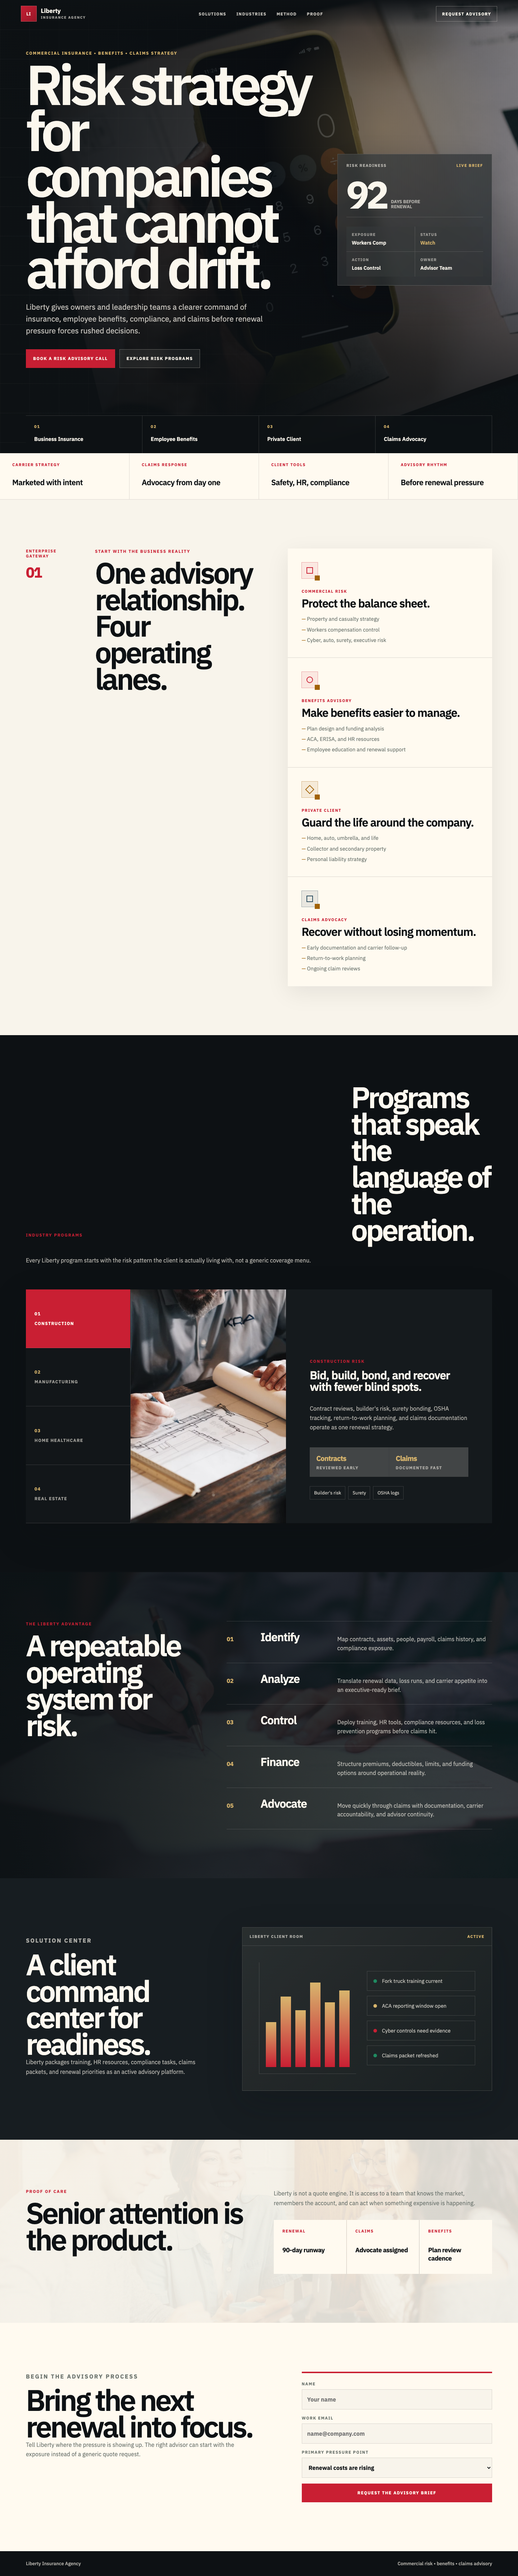
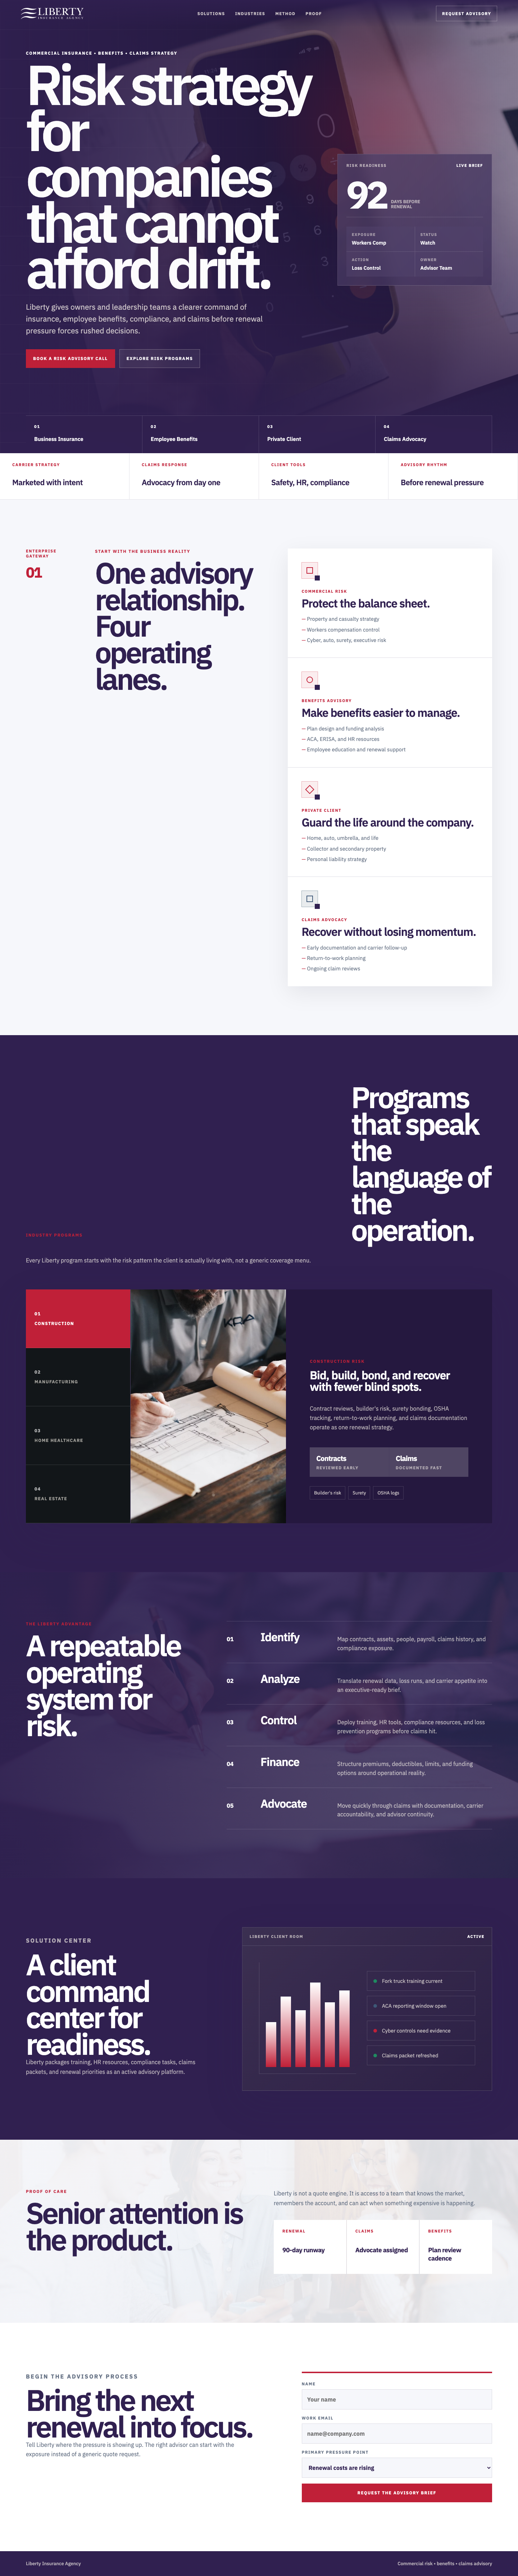
Align Liberty mockup with brand palette

diff --git a/styles.css b/styles.css
@@ -1,20 +1,20 @@
 :root {
-  --ink: #0d1114;
-  --charcoal: #171d21;
-  --slate: #24313a;
-  --ivory: #f8f4eb;
-  --paper: #fffaf0;
-  --bone: #ece3d3;
-  --muted: #6d756f;
-  --red: #c91f33;
-  --red-deep: #991829;
-  --gold: #a16207;
-  --gold-light: #d8b56d;
-  --blue: #26495c;
+  --ink: #302050;
+  --charcoal: #25183f;
+  --slate: #3e5877;
+  --ivory: #f6f7fb;
+  --paper: #ffffff;
+  --bone: #e9edf5;
+  --muted: #657184;
+  --red: #c02038;
+  --red-deep: #971a2d;
+  --brand-indigo: #302050;
+  --brand-indigo-soft: #47356e;
+  --blue: #3e5877;
   --green: #1f8a60;
-  --line-dark: rgba(255, 250, 240, 0.16);
-  --line-light: rgba(13, 17, 20, 0.14);
-  --shadow: 0 34px 90px rgba(13, 17, 20, 0.24);
+  --line-dark: rgba(255, 255, 255, 0.16);
+  --line-light: rgba(48, 32, 80, 0.14);
+  --shadow: 0 34px 90px rgba(48, 32, 80, 0.24);
   --font: "IBM Plex Sans", "Avenir Next", "Trebuchet MS", sans-serif;
 }
 
@@ -40,8 +40,8 @@ body {
   pointer-events: none;
   opacity: 0.06;
   background:
-    repeating-linear-gradient(0deg, rgba(13, 17, 20, 0.55), rgba(13, 17, 20, 0.55) 1px, transparent 1px, transparent 3px),
-    repeating-linear-gradient(90deg, rgba(13, 17, 20, 0.4), rgba(13, 17, 20, 0.4) 1px, transparent 1px, transparent 5px);
+    repeating-linear-gradient(0deg, rgba(48, 32, 80, 0.55), rgba(48, 32, 80, 0.55) 1px, transparent 1px, transparent 3px),
+    repeating-linear-gradient(90deg, rgba(48, 32, 80, 0.4), rgba(48, 32, 80, 0.4) 1px, transparent 1px, transparent 5px);
   mix-blend-mode: multiply;
 }
 
@@ -71,45 +71,19 @@ select {
   gap: 32px;
   padding: 16px clamp(18px, 4vw, 64px);
   color: var(--paper);
-  background: linear-gradient(180deg, rgba(13, 17, 20, 0.92), rgba(13, 17, 20, 0));
+  background: linear-gradient(180deg, rgba(48, 32, 80, 0.94), rgba(48, 32, 80, 0));
 }
 
 .brand {
   display: inline-flex;
   align-items: center;
-  gap: 12px;
+  min-width: 164px;
 }
 
-.brand-mark {
-  display: grid;
-  width: 44px;
-  height: 44px;
-  place-items: center;
-  border: 1px solid rgba(255, 250, 240, 0.26);
-  background: linear-gradient(135deg, var(--red), var(--red-deep));
-  font-size: 0.76rem;
-  font-weight: 700;
-  letter-spacing: 0.04em;
-}
-
-.brand strong,
-.brand small {
-  display: block;
-  line-height: 1;
-}
-
-.brand strong {
-  font-size: 1.04rem;
-  font-weight: 700;
-}
-
-.brand small {
-  margin-top: 5px;
-  color: rgba(255, 250, 240, 0.62);
-  font-size: 0.62rem;
-  font-weight: 700;
-  letter-spacing: 0.16em;
-  text-transform: uppercase;
+.brand img {
+  width: 174px;
+  height: auto;
+  filter: brightness(0) invert(1);
 }
 
 .primary-nav {
@@ -131,7 +105,7 @@ select {
 }
 
 .primary-nav a:hover {
-  color: var(--gold-light);
+  color: #ffffff;
 }
 
 .header-cta {
@@ -144,8 +118,8 @@ select {
 }
 
 .header-cta:hover {
-  border-color: var(--gold-light);
-  color: var(--gold-light);
+  border-color: #ffffff;
+  color: #ffffff;
 }
 
 .hero {
@@ -159,7 +133,7 @@ select {
   overflow: hidden;
   padding: 140px clamp(18px, 5vw, 72px) 0;
   color: var(--paper);
-  background: var(--ink);
+  background: var(--brand-indigo);
 }
 
 .hero-photo,
@@ -178,9 +152,9 @@ select {
 
 .hero-shade {
   background:
-    radial-gradient(circle at 74% 28%, rgba(216, 181, 109, 0.25), transparent 24%),
-    linear-gradient(90deg, rgba(13, 17, 20, 0.98), rgba(13, 17, 20, 0.76) 46%, rgba(13, 17, 20, 0.36)),
-    linear-gradient(0deg, rgba(13, 17, 20, 0.94), rgba(13, 17, 20, 0.08) 58%);
+    radial-gradient(circle at 74% 28%, rgba(192, 32, 56, 0.24), transparent 24%),
+    linear-gradient(90deg, rgba(48, 32, 80, 0.98), rgba(48, 32, 80, 0.78) 46%, rgba(48, 32, 80, 0.38)),
+    linear-gradient(0deg, rgba(48, 32, 80, 0.94), rgba(48, 32, 80, 0.08) 58%);
 }
 
 .hero::after {
@@ -217,7 +191,7 @@ select {
 }
 
 .hero .eyebrow {
-  color: var(--gold-light);
+  color: #ffffff;
 }
 
 h1,
@@ -300,8 +274,8 @@ h3 {
 }
 
 .button-secondary:hover {
-  border-color: var(--gold-light);
-  color: var(--gold-light);
+  border-color: #ffffff;
+  color: #ffffff;
 }
 
 .signal-panel {
@@ -309,8 +283,8 @@ h3 {
   border: 1px solid rgba(255, 250, 240, 0.18);
   padding: 24px;
   background:
-    linear-gradient(135deg, rgba(255, 250, 240, 0.11), rgba(255, 250, 240, 0.04)),
-    rgba(23, 29, 33, 0.72);
+    linear-gradient(135deg, rgba(255, 255, 255, 0.12), rgba(255, 255, 255, 0.045)),
+    rgba(48, 32, 80, 0.74);
   box-shadow: var(--shadow);
   backdrop-filter: blur(18px);
 }
@@ -329,7 +303,7 @@ h3 {
 
 .panel-topline b,
 .console-top b {
-  color: var(--gold-light);
+  color: #ffffff;
 }
 
 .risk-score {
@@ -368,7 +342,7 @@ h3 {
 
 .signal-grid div {
   padding: 15px;
-  background: rgba(13, 17, 20, 0.42);
+  background: rgba(48, 32, 80, 0.45);
 }
 
 .signal-grid small,
@@ -392,7 +366,7 @@ h3 {
 }
 
 .status-watch {
-  color: var(--gold-light) !important;
+  color: #ffffff !important;
 }
 
 .hero-paths {
@@ -400,7 +374,7 @@ h3 {
   display: grid;
   grid-template-columns: repeat(4, minmax(0, 1fr));
   border-top: 1px solid var(--line-dark);
-  background: rgba(13, 17, 20, 0.72);
+  background: rgba(48, 32, 80, 0.74);
   backdrop-filter: blur(16px);
 }
 
@@ -420,7 +394,7 @@ h3 {
 .hero-paths span {
   display: block;
   margin-bottom: 18px;
-  color: var(--gold-light);
+  color: #ffffff;
   font-size: 0.69rem;
   font-weight: 700;
   letter-spacing: 0.14em;
@@ -526,7 +500,7 @@ h3 {
   height: 14px;
   right: -6px;
   bottom: -6px;
-  background: var(--gold);
+  background: var(--brand-indigo);
 }
 
 .icon-box-alt span {
@@ -534,12 +508,12 @@ h3 {
 }
 
 .icon-box-warm {
-  border-color: rgba(161, 98, 7, 0.42);
-  background: rgba(161, 98, 7, 0.1);
+  border-color: rgba(192, 32, 56, 0.34);
+  background: rgba(192, 32, 56, 0.08);
 }
 
 .icon-box-warm span {
-  border-color: var(--gold);
+  border-color: var(--red);
   transform: rotate(45deg);
 }
 
@@ -569,11 +543,11 @@ h3 {
 
 .lane-grid li::before {
   content: "— ";
-  color: var(--gold);
+  color: var(--red);
 }
 
 .industry-suite {
-  background: var(--ink);
+  background: var(--brand-indigo);
   color: var(--paper);
 }
 
@@ -632,7 +606,7 @@ h3 {
 .industry-tab span {
   display: block;
   margin-bottom: 12px;
-  color: var(--gold-light);
+  color: rgba(255, 255, 255, 0.7);
 }
 
 .industry-tab.is-active {
@@ -648,7 +622,7 @@ h3 {
   display: grid;
   grid-template-columns: minmax(300px, 0.86fr) minmax(0, 1.14fr);
   min-height: 650px;
-  background: #151a1d;
+  background: #25183f;
 }
 
 .industry-image-wrap {
@@ -699,7 +673,7 @@ h3 {
 }
 
 .industry-metrics span {
-  color: var(--gold-light);
+  color: #ffffff;
   font-size: 1.24rem;
   font-weight: 700;
   letter-spacing: -0.04em;
@@ -731,7 +705,7 @@ h3 {
   grid-template-columns: minmax(280px, 0.78fr) minmax(0, 1.22fr);
   gap: clamp(36px, 6vw, 90px);
   background:
-    linear-gradient(90deg, rgba(13, 17, 20, 0.96), rgba(13, 17, 20, 0.76)),
+    linear-gradient(90deg, rgba(48, 32, 80, 0.96), rgba(48, 32, 80, 0.78)),
     url("https://images.unsplash.com/photo-1450101499163-c8848c66ca85?auto=format&fit=crop&w=1800&q=88")
     center / cover;
   color: var(--paper);
@@ -758,7 +732,7 @@ h3 {
 }
 
 .method-list span {
-  color: var(--gold-light);
+  color: #ffffff;
   font-weight: 700;
 }
 
@@ -778,7 +752,7 @@ h3 {
   grid-template-columns: minmax(0, 0.8fr) minmax(340px, 1.08fr);
   gap: clamp(34px, 6vw, 86px);
   align-items: center;
-  background: var(--charcoal);
+  background: var(--brand-indigo);
   color: var(--paper);
 }
 
@@ -786,7 +760,7 @@ h3 {
   border: 1px solid var(--line-dark);
   background:
     linear-gradient(135deg, rgba(255, 250, 240, 0.1), rgba(255, 250, 240, 0.035)),
-    #111719;
+    #25183f;
   box-shadow: var(--shadow);
 }
 
@@ -815,7 +789,7 @@ h3 {
 .console-chart span {
   flex: 1;
   min-width: 18px;
-  background: linear-gradient(180deg, var(--gold-light), var(--red));
+  background: linear-gradient(180deg, #ffffff, var(--red));
 }
 
 .console-tasks {
@@ -845,7 +819,7 @@ h3 {
 }
 
 .amber {
-  background: var(--gold-light);
+  background: var(--blue);
 }
 
 .red {
@@ -857,7 +831,7 @@ h3 {
   grid-template-columns: minmax(0, 0.9fr) minmax(320px, 0.9fr);
   gap: clamp(34px, 6vw, 82px);
   background:
-    linear-gradient(90deg, rgba(248, 244, 235, 0.96), rgba(248, 244, 235, 0.86)),
+    linear-gradient(90deg, rgba(246, 247, 251, 0.96), rgba(246, 247, 251, 0.88)),
     url("https://images.unsplash.com/photo-1543269865-cbf427effbad?auto=format&fit=crop&w=1800&q=88")
     center / cover;
 }
@@ -932,7 +906,7 @@ h3 {
 .contact-form input:focus,
 .contact-form select:focus {
   outline: 3px solid rgba(161, 98, 7, 0.24);
-  border-color: var(--gold);
+  border-color: var(--red);
 }
 
 .contact-form .button {
@@ -946,7 +920,7 @@ h3 {
   gap: 14px;
   padding: 26px clamp(18px, 5vw, 72px);
   color: rgba(255, 250, 240, 0.66);
-  background: var(--ink);
+  background: var(--brand-indigo);
   font-size: 0.82rem;
   font-weight: 500;
 }
@@ -1006,9 +980,12 @@ h3 {
     display: none;
   }
 
-  .brand-mark {
-    width: 40px;
-    height: 40px;
+  .brand {
+    min-width: 132px;
+  }
+
+  .brand img {
+    width: 138px;
   }
 
   .hero {

diff --git a/index.html b/index.html
@@ -21,11 +21,7 @@
     <div class="grain" aria-hidden="true"></div>
     <header class="site-header">
       <a class="brand" href="#" aria-label="Liberty Insurance Agency home">
-        <span class="brand-mark">LI</span>
-        <span>
-          <strong>Liberty</strong>
-          <small>Insurance Agency</small>
-        </span>
+        <img src="assets/liberty-logo.png" alt="Liberty Insurance Agency">
       </a>
       <nav class="primary-nav" aria-label="Primary navigation">
         <a href="#pathways">Solutions</a>